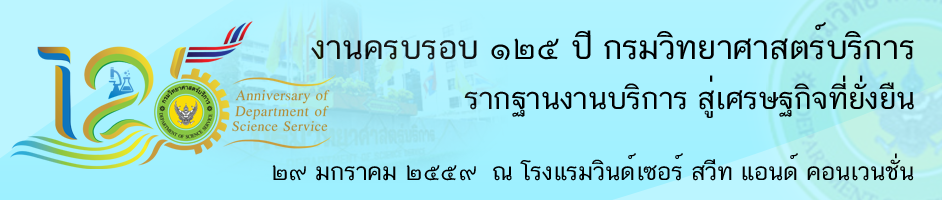
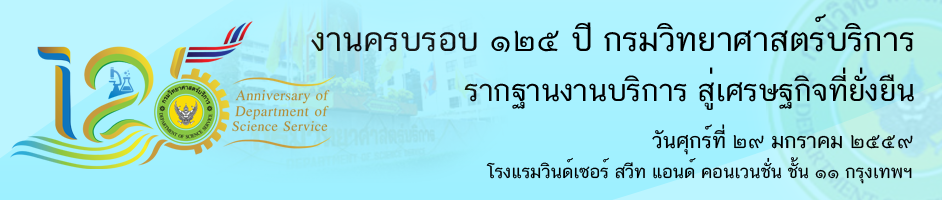
อัพเดตข้อมูลให้เป็นปัจจุบัน

Changed region(s): [[0.3079, 0.06, 0.9851, 0.3], [0.2771, 0.63, 0.9851, 0.9], [0.4926, 0.33, 0.9851, 0.6]]

diff --git a/seminar_26jan2016/src/main/resources/templates/Schedule.html b/seminar_26jan2016/src/main/resources/templates/Schedule.html
@@ -92,170 +92,79 @@
 
 
 <table id="scheduleTable2">
-  <tr>
-    <td width="624" colspan="2" valign="top"><br />
-      <strong>กลุ่มย่อยที่    ๑ งานบริการด้านการรับรองระบบงานห้องปฏิบัติการและการจัดกิจกรรมทดสอบความชำนาญ</strong></td>
+   <tr>
+    <td width="156" valign="top"><p align="center">๑๓.๐๐ – ๑๖.๐๐ น. </p></td>
+    <td width="512" valign="top"><p>สัมมนากลุ่มย่อย</p></td>
   </tr>
   <tr>
-    <td width="158" valign="top"><p align="center"><strong>เวลา</strong><strong> </strong></p></td>
-    <td width="465" valign="top"><p align="center"><strong>รายละเอียด</strong><strong> </strong></p></td>
+    <td width="156" valign="top"><p align="center">&nbsp;</p></td>
+    <td width="512" valign="top"><strong>กลุ่ม ๑    งานบริการด้านการรับรองระบบงานห้องปฏิบัติการและการจัดกิจกรรมทดสอบความชำนาญ</strong><strong> </strong>
+      <ul>
+      <li>ความสอบกลับได้    (Metrological    Traceability) เพื่อความน่าเชื่อถือของผลการวัด<br />
+        โดย ดร.พจมาน ท่าจีน</li>
+      <li>การเลือกใช้วัสดุอ้างอิง/วัสดุอ้างอิงรับรองในงานทดสอบ<br />
+        โดย  นางดุษฎี มั่นความดี</li>
+    </ul>
+    <p>&nbsp;</p></td>
   </tr>
   <tr>
-    <td width="158" valign="top"><p align="center">๑๓.๐๐ – ๑๔.๒๐ น. </p></td>
-    <td width="465" valign="top"><p>ความสอบกลับได้ (Metrological    Metrology) เพื่อความน่าเชื่อถือของผลการวัด<br />
-      วิทยากร ดร.พจมาน    ท่าจีน </p></td>
+    <td width="156" valign="top"><p align="center">&nbsp;</p></td>
+    <td width="512" valign="top"><strong>กลุ่ม ๒ งานบริการทดสอบ สอบเทียบ</strong><strong> </strong>
+      <ul>
+      <li>การทดสอบผลิตภัณฑ์ทำความสะอาด<br />
+        โดย นางสาวจิรสา กรงกรด และ นางสาวขนิษฐ พานชูวงศ์</li>
+      <li>ศักยภาพของ    วศ. ในการเป็นห้องปฏิบัติการอ้างอิงด้านอาหารของอาเซียน สาขา วัสดุสัมผัสอาหาร    และการให้บริการทดสอบวัสดุสัมผัสอาหาร<br />
+        โดย นางสุจินต์ พราวพันธ์ นางสาวสุภัตรา เจริญเกษมวิทย์ และ <br />
+        ดร.หนึ่งฤทัย  แสแสงสีรุ้ง</li>
+      <li>การสำรวจและประเมินคุณภาพผลิตภัณฑ์สำหรับเด็กและเครื่องใช้ในครัวเรือนที่จำหน่ายในประเทศ<br />
+        โดย นางสาวดวงกมล เชาวน์ศรีหมุด และ นางสาววรประภา ศรีโยทัย</li>
+      <li>ตรวจจุลินทรีย์เองง่ายจังไม่ต้องส่ง    LAB    (ชุดทดสอบจุลินทรีย์ในน้ำและอาหโดย ดร.สุพรรณี  เทพอรุณรัตน์</li>
+      <li>การพัฒนาตัวช่วยเพื่อความก้าวหน้าด้านการวัด<br />
+        โดย ดร.จิตตกานต์     อินเที่ยง</li>
+      <li>การทดสอบด้านวัสดุก่อสร้าง:    สุขภัณฑ์ ปูนซิเมนต์ กระจก กระเบื้อง<br />
+        โดย ดร.จรูญ จันทร์สมบูรณ์</li>
+      <li>โครงสร้างพื้นฐานด้านคุณภาพ    (Quality    Infrastructure)<br />
+        โดย ดร.พจมาน ท่าจีน</li>
+    </ul>
+    <p>&nbsp;</p></td>
   </tr>
   <tr>
-    <td width="158" valign="top"><p align="center">๑๔.๒๐ – ๑๔.๔๐ น.</p></td>
-    <td width="465" valign="top"><p>พักรับประทานอาหารว่างและเครื่องดื่ม</p></td>
+    <td width="156" valign="top"><p align="center">&nbsp;</p></td>
+    <td width="512" valign="top"><strong>กลุ่ม ๓ งานวิจัยและพัฒนา</strong><strong> </strong>
+      <ul>
+      <li>สารพัดนวัตกรรมวัสดุไฟเบอร์คอมโพสิทด้วยอนุภาคนาโน:    วศ จะทำอะไร<br />
+        โดย ดร.จริยาวดี ศิริจันทรา  </li>
+      <li>งานวิจัย    Automation    and Robotics สำคัญกว่าที่คิด<br />
+        โดย ดร.ปาษาณ กุลวานิช</li>
+      <li>ช่วยชาติด้วยการช่วยใช้ผลิตภัณฑ์ที่ผลิตจากยางธรรมชาติ<br />
+        โดย ดร.อรสา อ่อนจันทร์</li>
+      <li>งานวิจัยเพื่อลดพลังงานในอุตสาหกรรมแก้ว<br />
+        โดย ดร.กนิษฐ์ ตะปะสา</li>
+      <li>งานวิจัย    เพื่อ SMEs    ด้วยเทคโนโลยีเซรามิก<br />
+        โดย ดร.ศันศนีย์  รักไทยเจริญชีพ</li>
+      <li>การผลิตอาหารของไทยให้ก้าวไกลอย่างยั่งยืน<br />
+        โดย นายปัญจ์ยศ  มงคลชาติ</li>
+      <li>ปริมาณ    PAHs    ในยางรถยนต์กับกฎระเบียบทางการค้าของ EU ที่ควรรู้<br />
+        โดย ดร.อนุตตรา นวลถนอม</li>
+      <li>เปลี่ยนชีวมวลเป็นน้ำตาลสู่การผลิตเชื้อเพลิงเอทานอล<br />
+        โดย ดร.วัชรี คตินนท์กุล</li>
+    </ul>
+    <p>&nbsp;</p></td>
   </tr>
   <tr>
-    <td width="158" valign="top"><p align="center">๑๔.๔๐ – ๑๖.๐๐ น.</p></td>
-    <td width="465" valign="top"><p>การเลือกใช้วัสดุอ้างอิง/วัสดุอ้างอิงรับรองในงานทดสอบ <br />
-      วิทยากร นางดุษฎี    มั่นความดี</p></td>
-  </tr>
-  <tr>
-    <td width="624" colspan="2" valign="top"><p><strong>กลุ่มย่อยที่    ๒ งานบริการทดสอบ สอบเทียบ</strong><strong> </strong></p></td>
-  </tr>
-  <tr>
-    <td width="158" valign="top"><p align="center"><strong>เวลา</strong></p></td>
-    <td width="465" valign="top"><p align="center"><strong>รายละเอียด</strong><strong> </strong></p></td>
-  </tr>
-  <tr>
-    <td width="158" valign="top"><p align="center">๑๓.๐๐ – ๑๓.๒๐ น. </p></td>
-    <td width="465" valign="top"><p>การทดสอบผลิตภัณฑ์ทำความสะอาด <br />
-      วิทยากร  นางสาวจิรสา กรงกรด และ นางสาวขนิษฐ พานชูวงศ์</p></td>
-  </tr>
-  <tr>
-    <td width="158" valign="top"><p align="center">๑๓.๒๐ – ๑๓.๔๐ น.</p></td>
-    <td width="465" valign="top"><p>ศักยภาพของ วศ.    ในการเป็นห้องปฏิบัติการอ้างอิงด้านอาหารของอาเซียน สาขา วัสดุสัมผัสอาหาร    และการให้บริการทดสอบวัสดุสัมผัสอาหาร </p>
-      <p>วิทยากร นางสุจินต์    พราวพันธ์ นางสาวสุภัตรา เจริญเกษมวิทย์ และ <br />
-        ดร.หนึ่งฤทัย  แสแสงสีรุ้ง</p></td>
-  </tr>
-  <tr>
-    <td width="624" colspan="2" valign="top"><p><strong>กลุ่มย่อยที่    ๒ งานบริการด้านรับรองระบบงานห้องปฏิบัติการ</strong> (ต่อ)</p></td>
-  </tr>
-  <tr>
-    <td width="158" valign="top"><p align="center"><strong>เวลา</strong></p></td>
-    <td width="465" valign="top"><p align="center"><strong>รายละเอียด</strong><strong> </strong></p></td>
-  </tr>
-  <tr>
-    <td width="158" valign="top"><p align="center">๑๓.๔๐ – ๑๔.๐๐ น.</p></td>
-    <td width="465" valign="top"><p>การสำรวจและประเมินคุณภาพผลิตภัณฑ์สำหรับเด็กและเครื่องใช้ในครัวเรือนที่จำหน่ายในประเทศ <br />
-      วิทยากร นางสาวดวงกมล    เชาวน์ศรีหมุด และ นางสาววรประภา ศรีโยทัย</p></td>
-  </tr>
-  <tr>
-    <td width="158" valign="top"><p align="center">๑๔.๐๐ – ๑๔.๒๐ น. </p></td>
-    <td width="465" valign="top"><p>ตรวจจุลินทรีย์เองง่ายจังไม่ต้องส่ง    LAB (ชุดทดสอบจุลินทรีย์ในน้ำและอาหาร)<br />
-      วิทยากร ดร.สุพรรณี  เทพอรุณรัตน์</p></td>
-  </tr>
-  <tr>
-    <td width="158" valign="top"><p align="center">๑๔.๒๐ – ๑๔.๕๐ น.</p></td>
-    <td width="465" valign="top"><p>พักรับประทานอาหารว่างและเครื่องดื่ม</p></td>
-  </tr>
-  <tr>
-    <td width="158" valign="top"><p align="center">๑๔.๕๐ – ๑๕.๑๐ น.</p></td>
-    <td width="465" valign="top"><p>การพัฒนาตัวช่วยเพื่อความก้าวหน้าด้านการวัด <br />
-      วิทยากร ดร.จิตตกานต์  อินเที่ยง</p></td>
-  </tr>
-  <tr>
-    <td width="158" valign="top"><p align="center">๑๕.๑๐ – ๑๕.๓๐ น. </p></td>
-    <td width="465" valign="top"><p>การทดสอบด้านวัสดุก่อสร้าง:    สุขภัณฑ์ ปูนซิเมนต์ กระจก กระเบื้อง <br />
-      วิทยากร ดร.จรูญ    จันทร์สมบูรณ์</p></td>
-  </tr>
-  <tr>
-    <td width="158" valign="top"><p align="center">๑๕.๓๐ – ๑๕.๕๐ น. </p></td>
-    <td width="465" valign="top"><p>โครงสร้างพื้นฐานด้านคุณภาพ    (Quality Infrastructure)<br />
-      วิทยากร ดร.พจมาน    ท่าจีน</p></td>
-  </tr>
-  <tr>
-    <td width="624" colspan="2" valign="top"><p><strong>กลุ่มย่อยที่    ๓ งานวิจัยและพัฒนา</strong></p></td>
-  </tr>
-  <tr>
-    <td width="158" valign="top"><p align="center"><strong>เวลา</strong></p></td>
-    <td width="465" valign="top"><p align="center"><strong>รายละเอียด</strong></p></td>
-  </tr>
-  <tr>
-    <td width="158" valign="top"><p align="center">๑๓.๐๐ – ๑๓.๒๐ น. </p></td>
-    <td width="465" valign="top"><p>สารพัดนวัตกรรมวัสดุไฟเบอร์คอมโพสิทด้วยอนุภาคนาโน:    วศ จะทำอะไร <br />
-      วิทยากร    ดร.จริยาวดี ศิริจันทรา  <strong> </strong></p></td>
-  </tr>
-  <tr>
-    <td width="158" valign="top"><p align="center">๑๓.๒๐ – ๑๓.๔๐ น.</p></td>
-    <td width="465" valign="top"><p>งานวิจัย Automation    and Robotics สำคัญกว่าที่คิด<br />
-      วิทยากร ดร.ปาษาณ กุลวานิช</p></td>
-  </tr>
-  <tr>
-    <td width="158" valign="top"><p align="center">๑๓.๔๐ – ๑๔.๐๐ น.</p></td>
-    <td width="465" valign="top"><p>ช่วยชาติด้วยการช่วยใช้ผลิตภัณฑ์ที่ผลิตจากยางธรรมชาติ <br />
-      วิทยากร ดร.อรสา    อ่อนจันทร์</p></td>
-  </tr>
-  <tr>
-    <td width="158" valign="top"><p align="center">๑๔.๐๐ – ๑๔.๒๐ น. </p></td>
-    <td width="465" valign="top"><p>งานวิจัยเพื่อลดพลังงานในอุตสาหกรรมแก้ว <br />
-      วิทยากร ดร.กนิษฐ์    ตะปะสา </p></td>
-  </tr>
-  <tr>
-    <td width="158" valign="top"><p align="center">๑๔.๒๐ – ๑๔.๔๐ น.</p></td>
-    <td width="465" valign="top"><p>พักรับประทานอาหารว่างและเครื่องดื่ม</p></td>
-  </tr>
-  <tr>
-    <td width="158" valign="top"><p align="center">๑๔.๔๐ – ๑๕.๐๐    น.</p></td>
-    <td width="465" valign="top"><p>งานวิจัย เพื่อ SMEs    ด้วยเทคโนโลยีเซรามิก<br />
-      วิทยากร ดร.ศันศนีย์  รักไทยเจริญชีพ</p></td>
-  </tr>
-  <tr>
-    <td width="158" valign="top"><p align="center">๑๕.๐๐ – ๑๕.๒๐ น.</p></td>
-    <td width="465" valign="top"><p>การผลิตอาหารของไทยให้ก้าวไกลอย่างยั่งยืน <br />
-      วิทยากร นายปัญจ์ยศ  มงคลชาติ</p></td>
-  </tr>
-  <tr>
-    <td width="158" valign="top"><p align="center">๑๕.๒๐ – ๑๕.๔๐ น. </p></td>
-    <td width="465" valign="top"><p>ปริมาณ PAHs    ในยางรถยนต์กับกฎระเบียบทางการค้าของ EU ที่ควรรู้<br />
-      วิทยากร ดร.อนุตตรา นวมถน</p></td>
-  </tr>
-  <tr>
-    <td width="624" colspan="2" valign="top"><p><strong>กลุ่มย่อยที่    ๓ งานวิจัยและพัฒนา </strong>(ต่อ)<strong></strong></p></td>
-  </tr>
-  <tr>
-    <td width="158" valign="top"><p align="center"><strong>เวลา</strong></p></td>
-    <td width="465" valign="top"><p align="center"><strong>รายละเอียด</strong></p></td>
-  </tr>
-  <tr>
-    <td width="158" valign="top"><p align="center">๑๕.๔๐ – ๑๖.๐๐ น. </p></td>
-    <td width="465" valign="top"><p>เปลี่ยนชีวมวลเป็นน้ำตาลสู่การผลิตเชื้อเพลิงเอทานอล <br />
-      วิทยากร ดร.วัชรี    คตินนท์กุล</p></td>
-  </tr>
-  <tr>
-    <td width="624" colspan="2" valign="top"><p><strong>กลุ่มย่อยที่ ๔    งานด้านการพัฒนาบุคคลากรและการบริการสารสนเทศ</strong></p></td>
-  </tr>
-  <tr>
-    <td width="158" valign="top"><p align="center"><strong>เวลา</strong></p></td>
-    <td width="465" valign="top"><p align="center"><strong>รายละเอียด</strong></p></td>
-  </tr>
-  <tr>
-    <td width="158" valign="top"><p align="center">๑๓.๐๐-๑๓.๓๐    น. </p></td>
-    <td width="465" valign="top"><p>การให้บริการฝึกอบรมผ่านเครือข่ายอินเทอร์เน็ต <br />
-      วิทยากร นางอารีย์    คชฤทธิ์ และ นางสาวลัดดาวัลย์ เยียดยัด<strong> </strong></p></td>
-  </tr>
-  <tr>
-    <td width="158" valign="top"><p align="center">๑๓.๓๐-๑๔.๐๐    น.</p></td>
-    <td width="465" valign="top"><p>การพัฒนากำลังคนด้าน    ว และ ท ด้านสารเคมีและความปลอดภัยสารเคมีในกลุ่มประเทศอาเซียน <br />
-      วิทยากร ดร.ณัฏฐกานต์    เกตุคุ้ม และ นางสาวปัทมา นพรัตน์</p></td>
-  </tr>
-  <tr>
-    <td width="158" valign="top"><p align="center">๑๔.๐๐-    ๑๔.๓๐ น.</p></td>
-    <td width="465" valign="top"><p>การรับรองความสามารถบุคลากรด้านวิทยาศาสตร์และเทคโนโลยี <br />
-      วิทยากร นางชุติมา    วิไลพันธ์</p></td>
-  </tr>
-  <tr>
-    <td width="158" valign="top"><p align="center">๑๔.๓๐    – ๑๔.๕๐ น.</p></td>
-    <td width="465" valign="top"><p>พักรับประทานอาหารว่างและเครื่องดื่ม</p></td>
-  </tr>
-  <tr>
-    <td width="158" valign="top"><p align="center">๑๔.๕๐    – ๑๖.๐๐ น. </p></td>
-    <td width="465" valign="top"><p>S&amp;T Library    Application <br />
-      วิทยากร นายนภดล    แก้วบรรพต<strong> </strong></p></td>
+    <td width="156" valign="top"><p align="center">&nbsp;</p></td>
+    <td width="512" valign="top"><strong>กลุ่ม ๔ งานด้านการพัฒนาบุคลากรและการบริการสารสนเทศ</strong><strong> </strong>
+      <ul>
+      <li>การให้บริการฝึกอบรมผ่านเครือข่ายอินเทอร์เน็ต<br />
+        โดย นางอารีย์ คชฤทธิ์ และ นางสาวลัดดาวัลย์ เยียดยัด</li>
+      <li>การพัฒนากำลังคนด้าน    ว และ ท ด้านสารเคมีและความปลอดภัยสารเคมีในกลุ่มประเทศอาเซียน<br />
+        โดย ดร.ณัฏฐกานต์ เกตุคุ้ม และ นางสาวปัทมา นพรัตน์</li>
+      <li>การรับรองความสามารถบุคลากรด้านวิทยาศาสตร์และเทคโนโลยี<br />
+        โดย นางชุติมา วิไลพันธ์</li>
+      <li>S&amp;T    Library Application <br />
+        โดย นายนภดล แก้วบรรพต</li>
+    </ul>
+    <p>&nbsp;</p></td>
   </tr>
 </table>
 

diff --git a/seminar_26jan2016/src/main/resources/templates/Home.html b/seminar_26jan2016/src/main/resources/templates/Home.html
@@ -8,28 +8,37 @@
 	</head>
 	<body>
 	<div layout:fragment="mainContent">
-		<h1> หลักการและเหตุผล</h1>
+		<h3>หลักการและเหตุผล</h3>
 		<p>
-			       ประเทศไทยเป็นประเทศที่ต้องพึ่งพาเศรษฐกิจการส่งออก เพื่อให้การขยายสินค้าส่งออกเพิ่มขึ้น 
-			สินค้าจึงจำเป็นต้องมีคุณภาพ ได้มาตรฐานสากล ดังนั้น สินค้าส่งออกของประเทศจึงได้รับผลกระทบจากกฎ 
-			ระเบียบ ข้อบังคับ มาตรการกีดกันทางการค้า ทำให้ไม่สามารถแข่งขันสู่ตลาดโลกได้ กรมวิทยาศาสตร์บริการ
-			ในฐานเป็นองค์กรที่มีบทบาทสำคัญด้านพัฒนาคุณภาพสินค้าส่งออกของประเทศ ได้ตระหนักถึงความสำคัญ
-			ของการเพิ่มมูลค่าของผลิตภัณฑ์อุตสาหกรรม จึงได้จัดสัมมนาเรื่อง "การเพิ่่มศักยภาพการส่งออกของไทย
-			ด้วยมิติบริการใหม่กรมวิทยาศาสตร์บริการ" เพื่อเป็นแนวทางในการแก้ไขปัญหาการส่งออก 
-			รวมทั้งประชาสัมพันธ์มิติบริการรูปแบบใหม่ ด้วย ๓S (S๑ = Contract Service; S๒ = One Stop Service;
-			S๓ = New Testing Service) บริการผลงานวิจัยและผลงานเด่นของกรมวิทยาศาสตร์บริการ 
-			ให้แก่กลุ่มลูกค้า ผู้ประกอบการ อุตสาหกรรม ซึ่งสอดคล้องกับยุทธศาสตร์ของกรมวิทยาศาสตร์บริการ 
-			ในการส่งเสริมอุตสาหกรรมไทย ด้วยการขับเคลื่อนการพัฒนาตั้งแต่วัตถุดิบถึงผลิตภัณฑ์ ให้เป็นไปตาม
-			มาตรฐาน
+		&nbsp;&nbsp;&nbsp;&nbsp;&nbsp;กรมวิทยาศาสตร์บริการ มีรากฐานเริ่มต้นจาก พ.ศ. ๒๔๓๔ (ร.ศ. ๑๑๐) เป็น“สถานปฏิบัติการวิเคราะห์แร่” 
+		 หน่วยงานวิเคราะห์และทดสอบทางวิทยาศาสตร์หน่วยงานแรกของประเทศไทย มีภารกิจในการตรวจตราบรรดาการที่เกี่ยวข้องด้วยแร่ 
+		 โลหธาตุ รวมทั้งวิเคราะห์สารประกอบในสินค้าชนิดต่างๆ ต่อมาได้มีวิวัฒนาการและปรับเปลี่ยนชื่อเป็น “กองแยกธาตุ”  “ศาลาแยกธาตุ” 
+		“กรมวิทยาศาสตร์” และปัจจุบันเป็น “กรมวิทยาศาสตร์บริการ” สังกัดกระทรวงวิทยาศาสตร์และเทคโนโลยี 
+		 ให้บริการวิเคราะห์ทดสอบวัตถุดิบและผลิตภัณฑ์ทางด้านฟิสิกส์ เคมี และชีวภาพ  การรับรองระบบงานห้องปฏิบัติการ  
+		การจัดกิจกรรมทดสอบความชำนาญห้องปฏิบัติการทดสอบและสอบเทียบ การพัฒนาศักยภาพบุคลากรห้องปฏิบัติการ
+		การพัฒนาหอสมุดและศูนย์สารสนเทศวิทยาศาสตร์และเทคโนโลยี ตลอดจนวิจัยและพัฒนาเทคโนโลยีที่สามารถนำไป
+		ถ่ายทอดไปสู่การใช้ประโยชน์เพื่อพัฒนาเศรษฐกิจและสังคมของประเทศ<br/>
+		&nbsp;&nbsp;&nbsp;&nbsp;&nbsp;ในโอกาส ครบรอบ ๑๒๕ ปี กรมวิทยาศาสตร์บริการ จึงได้กำหนดจัดงาน “๑๒๕ ปี กรมวิทยาศาสตร์บริการ : รากฐานงานบริการสู่เศรษฐกิจที่ยั่งยืน” 
+		 ขึ้นในวันศุกร์ที่  ๒๙ มกราคม ๒๕๕๙  มีวัตถุประสงค์เพื่อเผยแพร่ผลงานการให้บริการโครงสร้างพื้นฐานด้านคุณภาพ ที่สนับสนุนผู้ประกอบ
+		 การอุตสาหกรรมและวิสาหกิจชุมชน ช่วยสนับสนุนการเพิ่มศักยภาพและยกระดับคุณภาพของการผลิตสินค้าไทยให้สามารถแข่งขันได้ในตลาดโลก 
+		 สร้างความเข้าใจและสามารถเข้าถึงงานบริการได้ตรงตามความต้องการ เชิดชูผู้ประกอบการและวิสาหกิจชุมชนที่สามารถใช้วิทยาศาสตร์และเทคโนโลยี
+		 เป็นพื้นฐานพัฒนาและยกระดับคุณภาพสินค้า สอดคล้องกับนโยบายรัฐบาล และนโยบายของกระทรวงวิทยาศาสตร์และเทคโนโลยีที่ให้ความสำคัญ
+		 กับการพัฒนาและส่งเสริมการใช้ประโยชน์จากวิทยาศาสตร์ เทคโนโลยี การวิจัยและพัฒนา และนวัตกรรม  
 		</p>
 		
-		<h2>วัตถุประสงค์</h2>
-		<ol>
-			<li> เพื่อเผยแพร่ ประชาสัมพันธ์ มิติบริการใหม่ ด้านการทดสอบของกรมวิทยาศาสตร์บริการ</li>
-			<li>เพื่อสร้างความรู้ ความเข้าใจและแลกเปลี่ยนความคิดเห็นจากผู้ทรงคุณวุฒิ และผู้เข้าร่วม
-				สัมมนา เกี่ยวกับกฎ ระเบียบ และมาตรการกีดกันทางการค้าจากนานาประเทศ 
-				ให้แก่ผู้ประกอบการอุตสาหกรรม</li>
-		</ol>
+		<h3>กลุ่มเป้าหมาย</h3>
+		<p>&nbsp;&nbsp;&nbsp;&nbsp;&nbsp;ผู้เข้าร่วมงานจากหน่วยงานราชการ ผู้มีส่วนได้ส่วนเสีย ผู้ประกอบการ SME และ OTOP  ผู้รับบริการ  ประชาชนผู้สนใจทั่วไป  ประมาณ ๗๐๐ คน</p>
+		
+		<h3>เวลาและสถานที่ดำเนินงาน</h3>
+		<p>&nbsp;&nbsp;&nbsp;&nbsp;&nbsp;วันศุกร์ที่ ๒๙ มกราคม ๒๕๕๙  โรงแรมวินด์เซอร์ สวีท แอนด์ คอนเวนชั่น ชั้น ๑๑ กรุงเทพฯ</p>
+		
+		<h3>ประโยชน์ที่คาดว่าจะได้รับ</h3>
+			๑)	ทำให้ทราบถึงผลงานและช่องทางการเข้าถึงงานบริการของกรมวิทยาศาสตร์บริการ <br/>
+			๒)	สามารถนำผลงานด้านวิทยาศาสตร์และเทคโนโลยี ไปปรับใช้เป็นแนวทางการพัฒนาคุณภาพสินค้า <br/> 
+			๓)	สร้างความภาคภูมิใจ และตระหนักในความสำคัญของงานบริการด้านวิทยาศาสตร์และเทคโนโลยี แก่ผู้ประกอบการ <br/>
+			๔)	สร้างเครือข่ายความร่วมมือระหว่างนักวิชาการ และผู้ประกอบการ <br/>
+
+		
 	</div>
 	</body>
 </html>

diff --git a/seminar_26jan2016/src/main/resources/templates/layout/mainLayout.html b/seminar_26jan2016/src/main/resources/templates/layout/mainLayout.html
@@ -76,8 +76,8 @@
 		</div>
 		
 		<div id="footer">
-			<p>สงวนลิขสิทธิ์ 2558, กรมวิทยาศาสตร์บริการ 75/7 ถ.พระรามที่ 6 ราชเทวี กรุงเทพฯ 10400 โทร. 0-2201-7000 โทรสาร. 0-2201-7509 หรือ 0-2201-7466 email: <a href="mailto:125seminar@dss.go.th">125seminar@dss.go.th</a></p>
-			<p>copyright 2015, Department of Science Service 75/7 RAMA VI Road Ratchathewi Bangkok Tel 0-2201-7000 Fax 0-2201-7509,0-2201-7466 email: <a href="mailto:125seminar@dss.go.th">125seminar@dss.go.th</a></p>
+			<p>สงวนลิขสิทธิ์ ๒๕๕๘, กรมวิทยาศาสตร์บริการ ๗๕/๗  ถ.พระรามที่ ๖ ราชเทวี กรุงเทพฯ ๑๐๔๐๐  โทร. ๐-๒๒๐๑-๗๐๐๐  โทรสาร. ๐-๒๒๐๑-๗๕๐๙  หรือ ๐-๒๒๐๑-๗๔๖๖  email: <a href="mailto:125seminar@dss.go.th">125seminar@dss.go.th</a></p>
+			<p>copyright 2015, Department of Science Service 75/7 RAMA VI Road Ratchathewi Bangkok 10400 Tel 0-2201-7000 Fax 0-2201-7509,0-2201-7466 email: <a href="mailto:125seminar@dss.go.th">125seminar@dss.go.th</a></p>
 		</div>
 	</div>
 

diff --git a/seminar_26jan2016/src/main/resources/templates/Venue.html b/seminar_26jan2016/src/main/resources/templates/Venue.html
@@ -9,10 +9,10 @@
 	<body>
 	<div layout:fragment="mainContent">
 		<h1>สถานที่จัดงานสัมมนา</h1>
-		โรงแรมวินเซอร์ สวีท แอนด์ คอนเวนชั่น
+		โรงแรมวินเซอร์ สวีท แอนด์ คอนเวนชั่น ชั้น ๑๑ กรุงเทพฯ
 		
 		<h2>แผนที่โรงแรม</h2>
-		<img src="/images/asiabangkok_map_crop.jpg" th:src="@{/images/asiabangkok_map_crop.jpg}"/>
+		<img src="/images/windsor.jpg" th:src="@{/images/windsor.jpg}"/>
 		
 <br/><br/>
 <p>		
